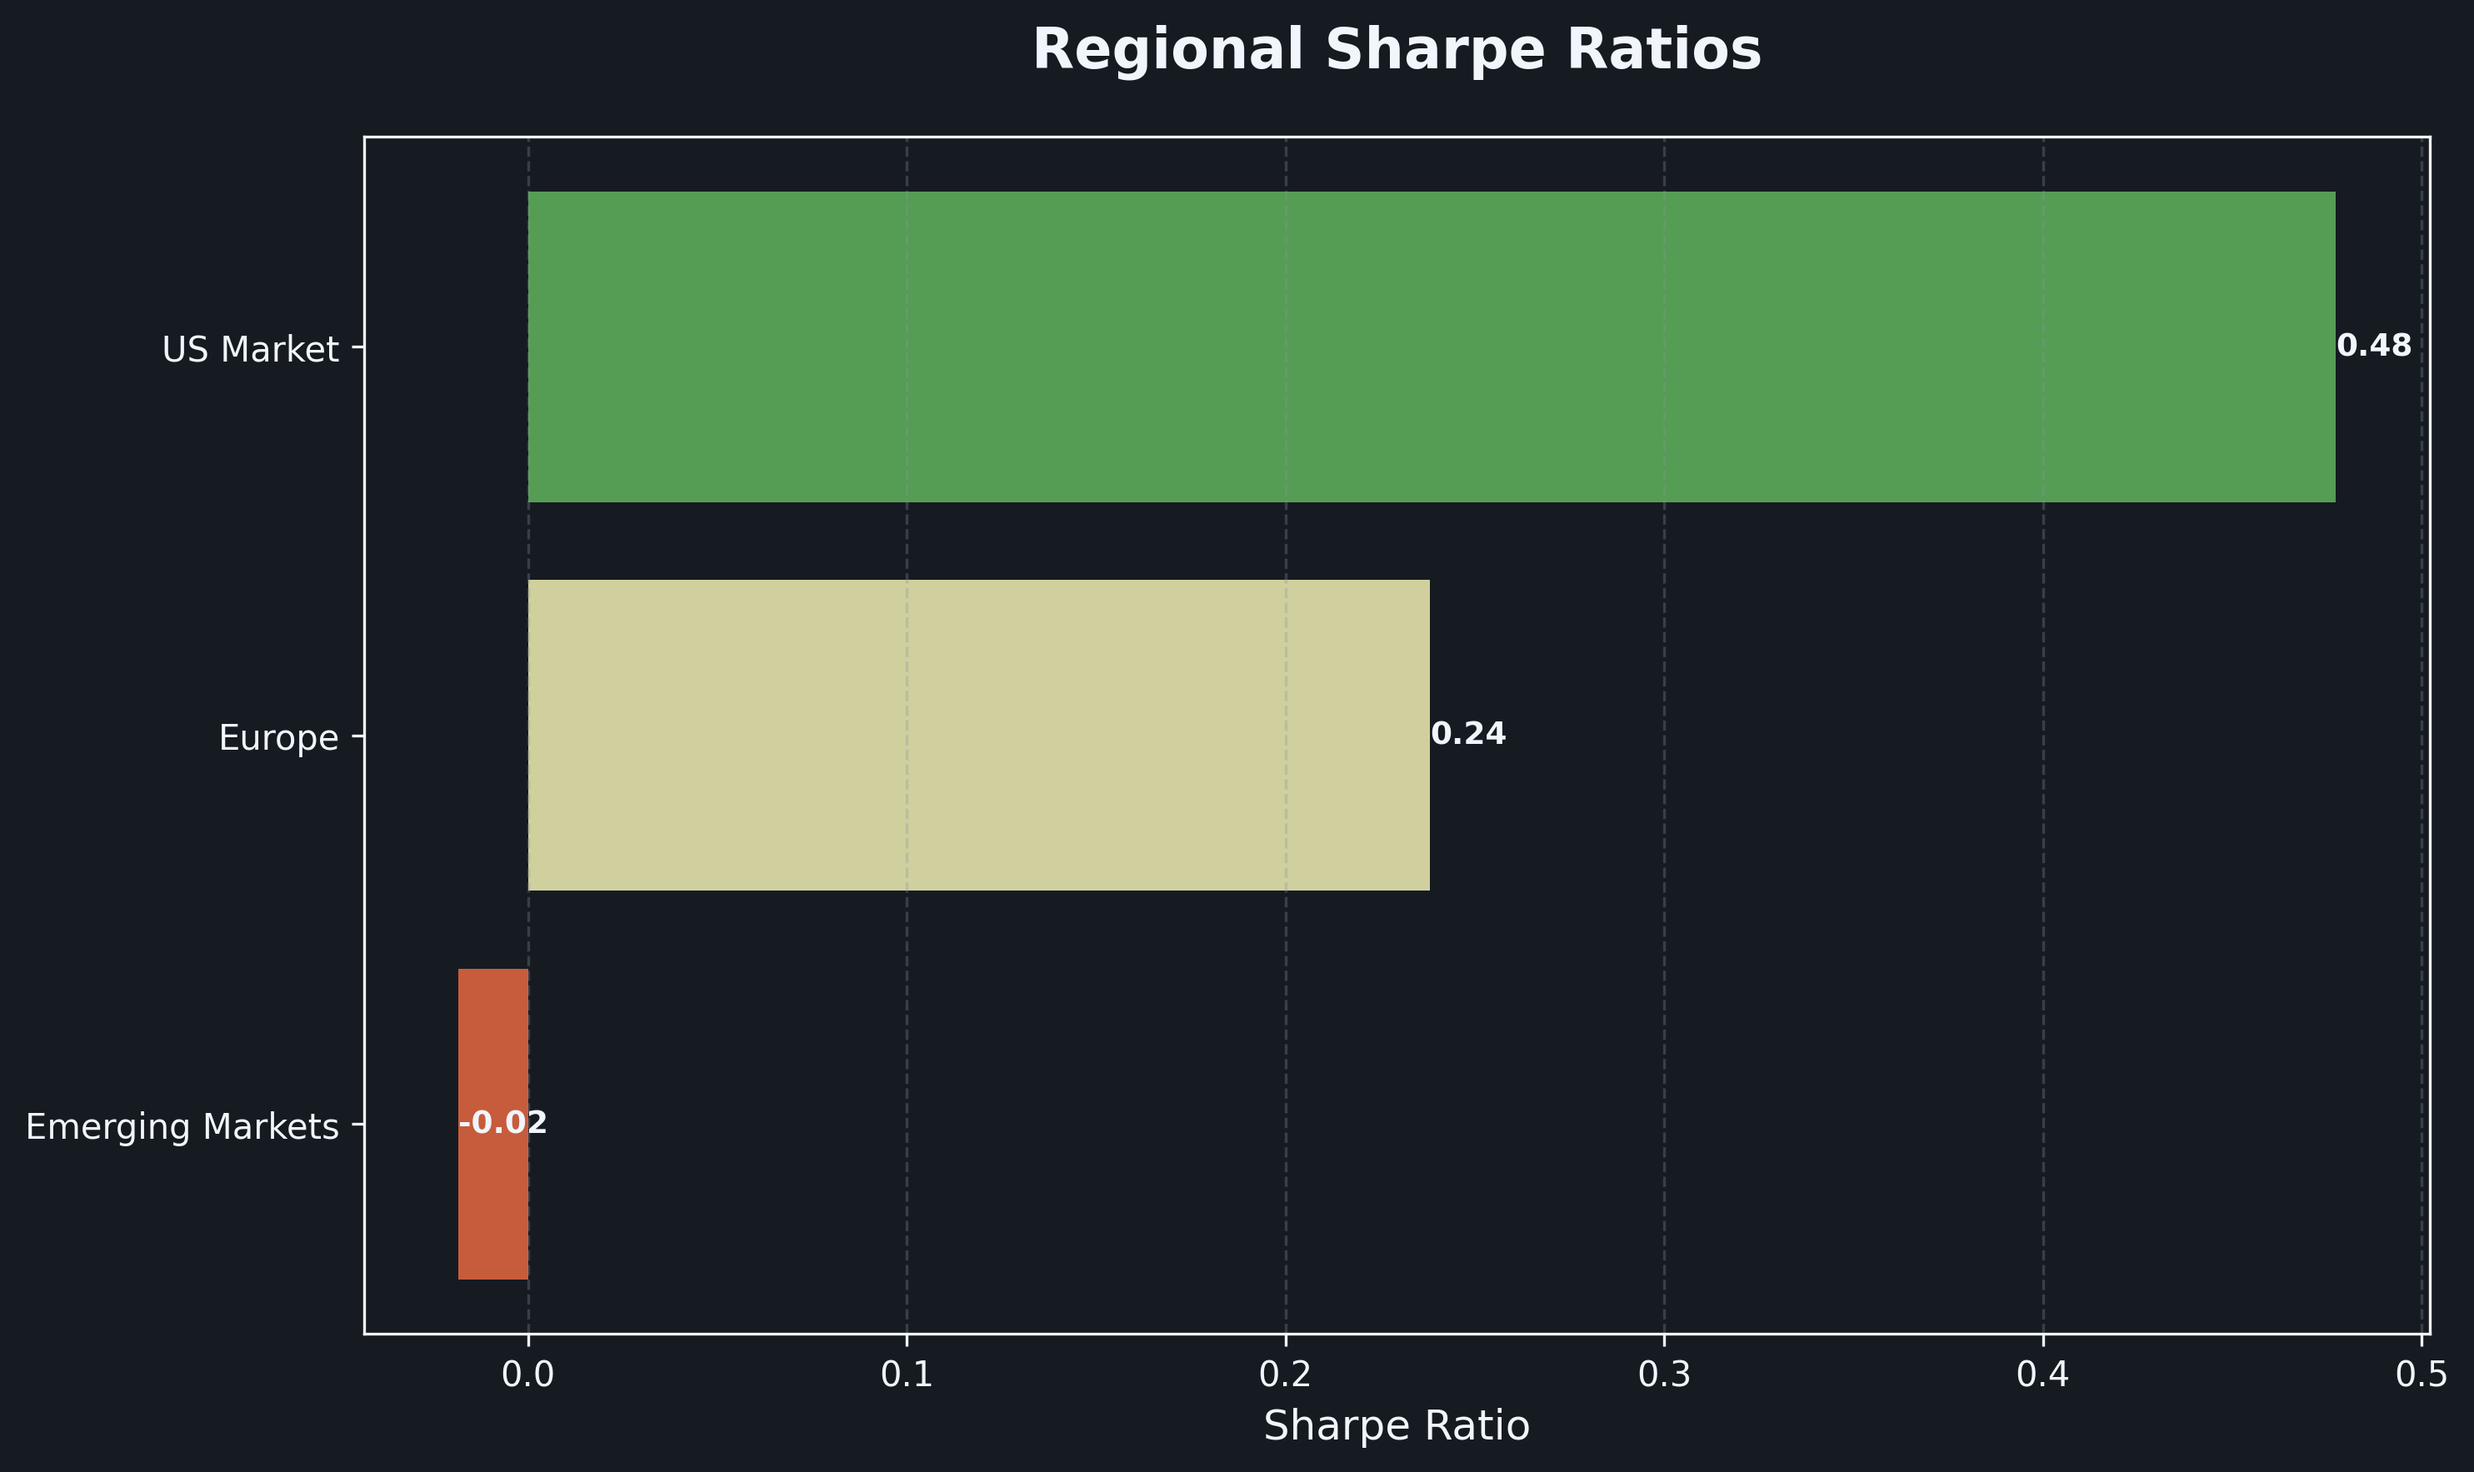
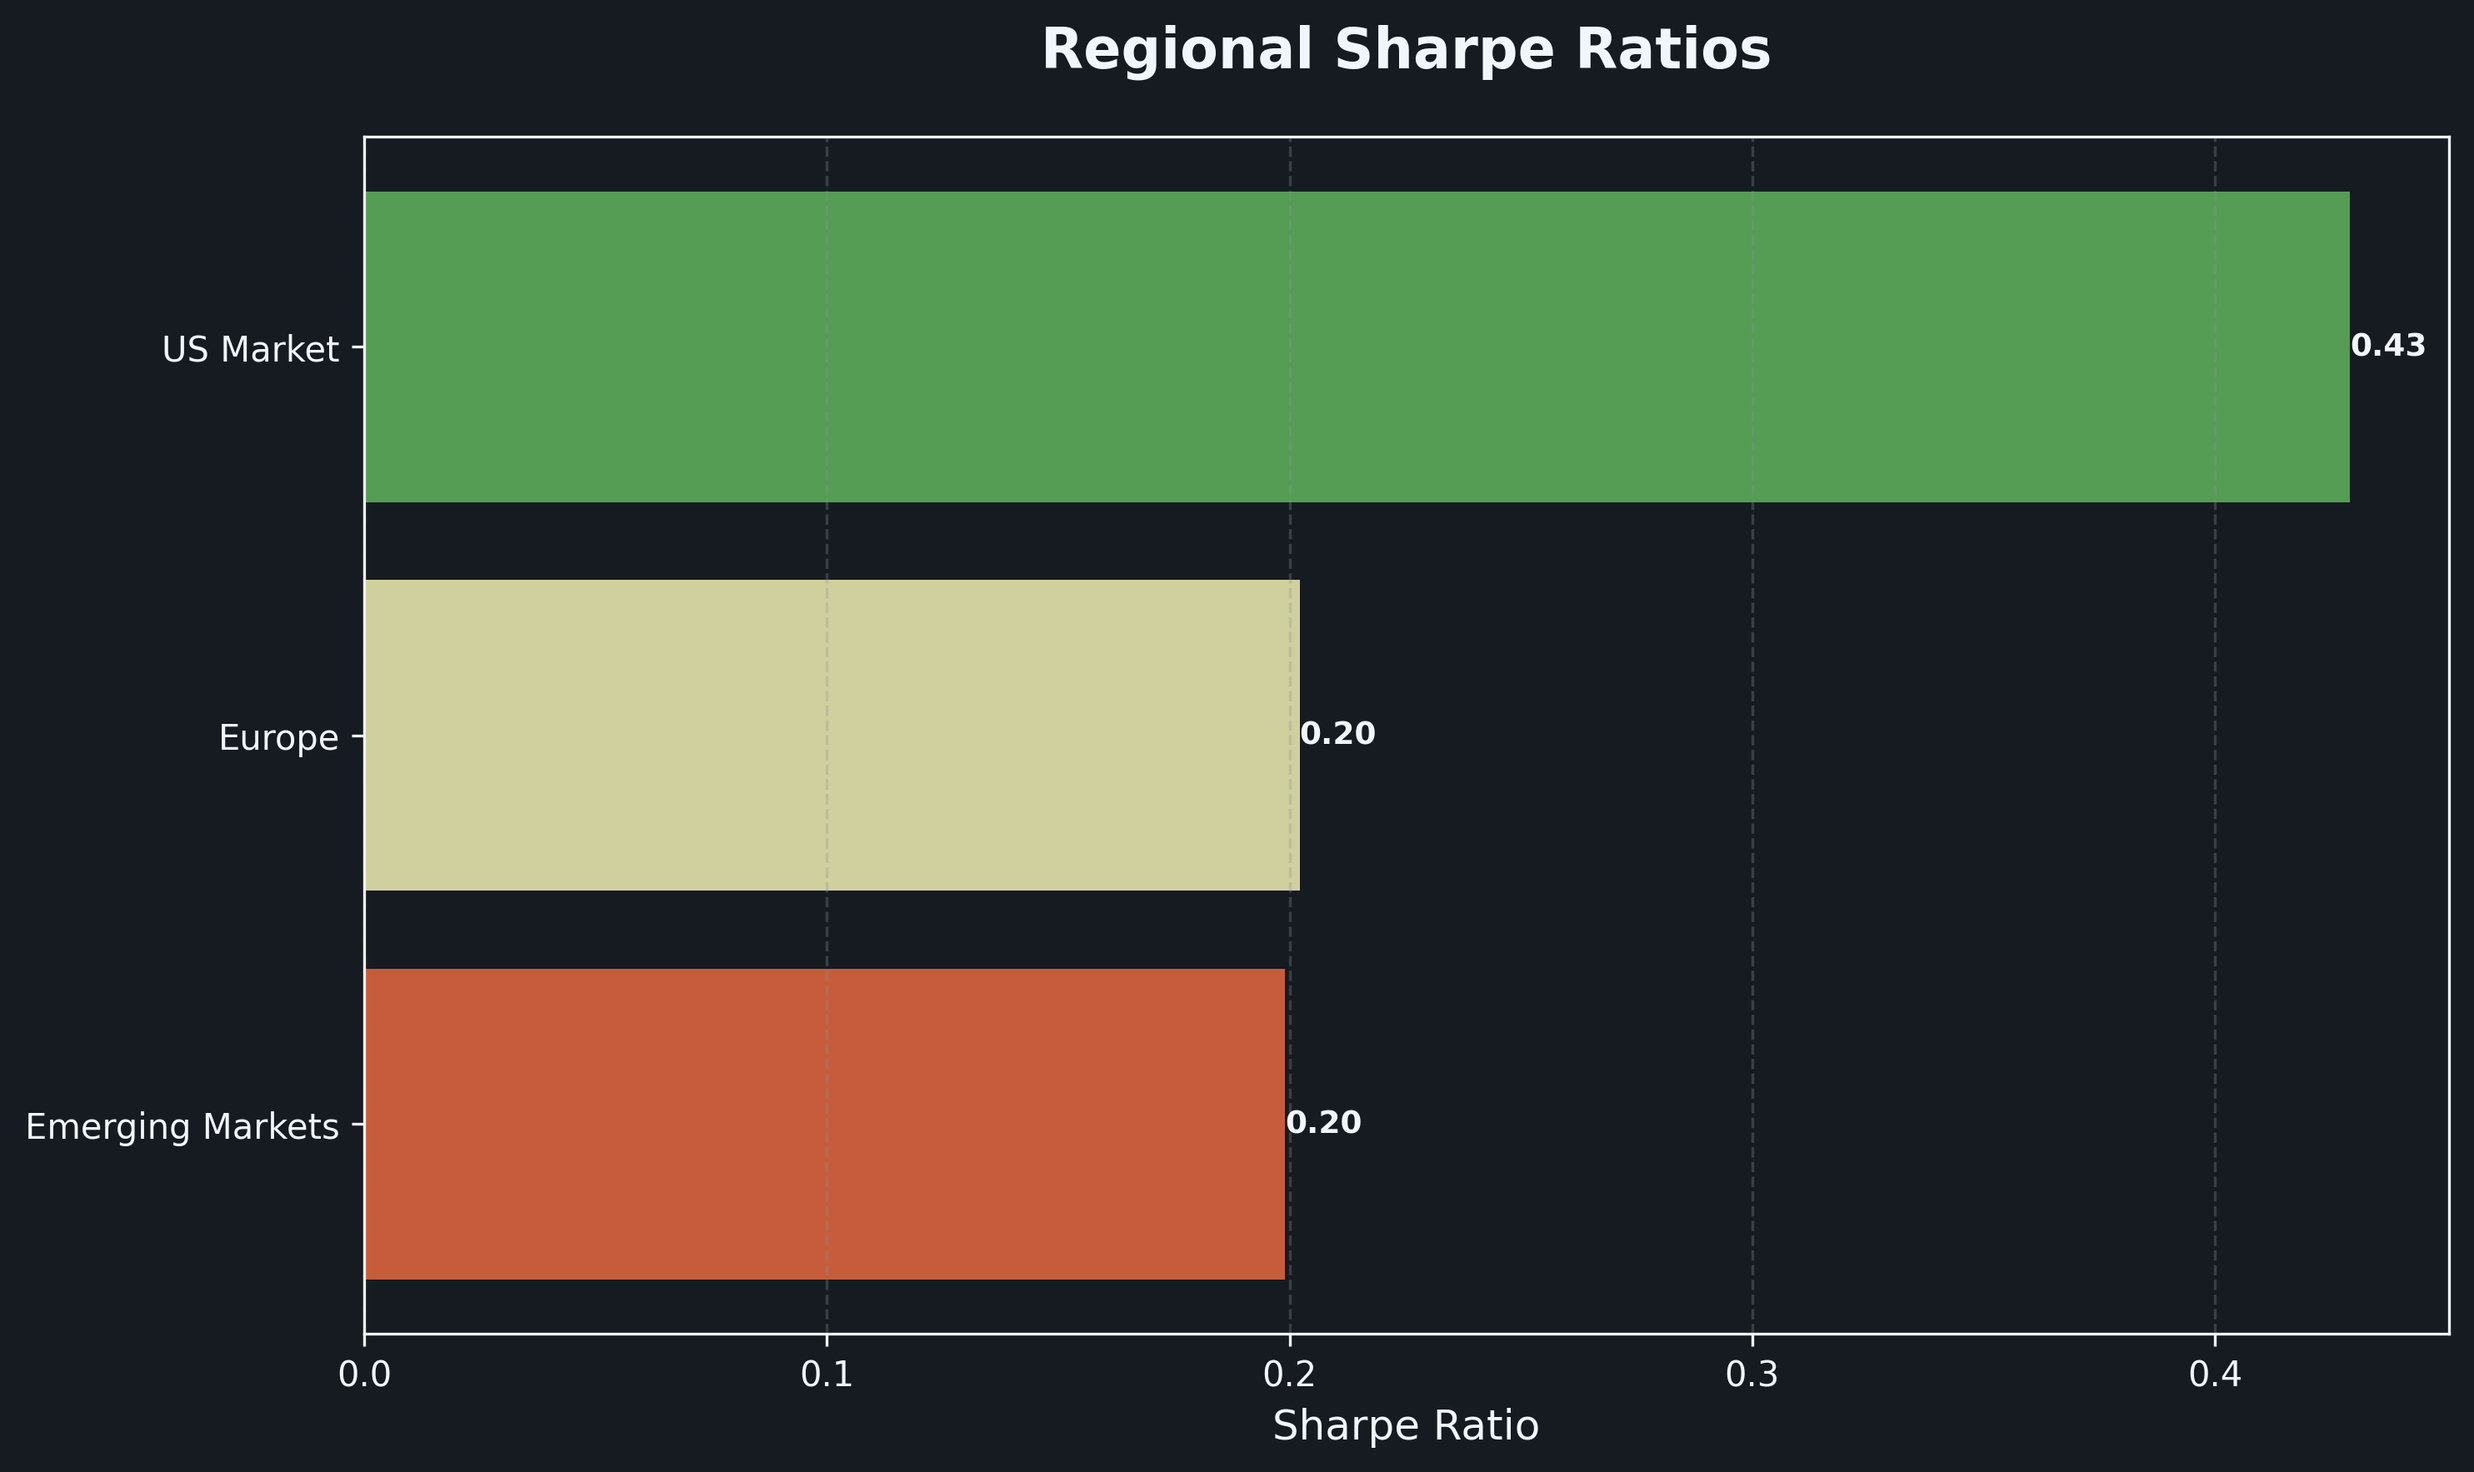
update eu ticker for mode data depth

diff --git a/config.py b/config.py
@@ -23,16 +23,16 @@ class Config:
         "Low Volatility": "USMV"
     }
     
-    # Geography ETF Tickers
+    # Geography ETF Tickers (optimized for maximum historical data)
     GEOGRAPHY_TICKERS: Dict[str, str] = {
-        "US Market": "SPY",
-        "Europe": "EXSA.DE",
-        "Emerging Markets": "EEM"
+        "US Market": "SPY",           # Data from 1993
+        "Europe": "IEV",              # iShares Europe ETF - Data from 2000
+        "Emerging Markets": "EEM"     # Data from 2003
     }
     
     # Currency Conversion (Base Currency: EUR)
     CURRENCY_PAIR: str = "EURUSD=X"  # Will be inverted to get USD/EUR rate
-    USD_TICKERS: List[str] = ["SPY", "EEM", "VLUE", "MTUM", "QUAL", "USMV"]  # Tickers that need USD to EUR conversion
+    USD_TICKERS: List[str] = ["SPY", "IEV", "EEM", "VLUE", "MTUM", "QUAL", "USMV"]  # Tickers that need USD to EUR conversion
     
     # Date Range for Analysis (defaults, Portuguese format: DD/MM/YYYY)
     START_DATE: str = "01/01/2000"
